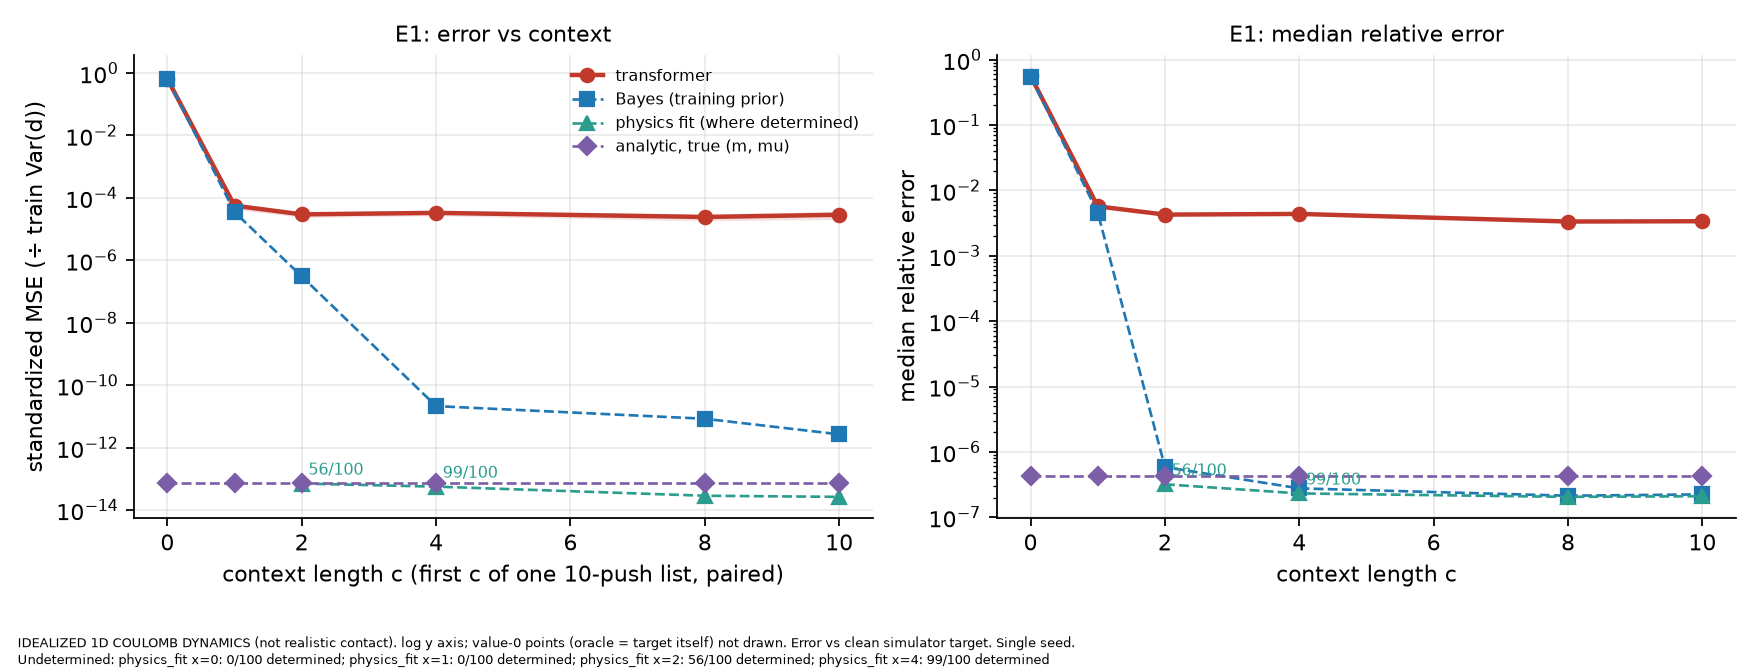
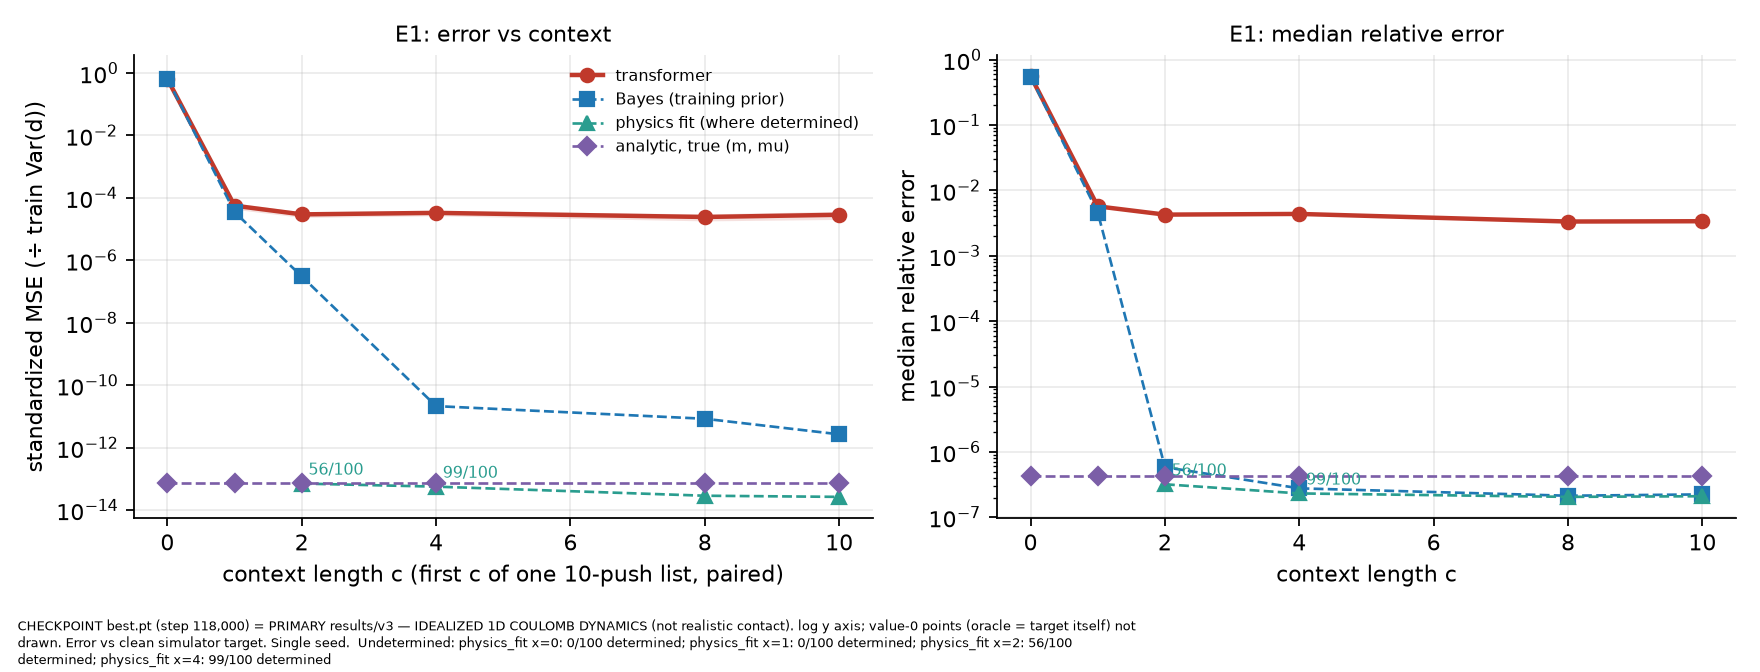
Fact-check corrections: regenerate figures (E2 stale, F03 zero point), checkpoint tag option, summary and scripts
Claude-Session: https://claude.ai/code/session_01EMRnhXNbTxxRuwgfvyUP1y

Changed region(s): [[0.0, 0.9062, 0.6562, 1.0]]

diff --git a/scripts/packet/make_deck.py b/scripts/packet/make_deck.py
@@ -9,7 +9,7 @@ from pptx.dml.color import RGBColor
 from pptx.enum.text import PP_ALIGN, MSO_ANCHOR
 from pptx.enum.shapes import MSO_SHAPE
 
-PK = Path(sys.argv[1]); FIG = PK / "figures"; SIM = PK / "simulator_evidence"
+PK = Path(sys.argv[1]); FIG = PK / "figures"; SIM = PK / "simulator_evidence"; SLF = PK / "figures_slides"; SLS = PK / "figures_slides_src"  # caption-free slide versions
 RED = RGBColor(0xC0, 0x39, 0x2B); INK = RGBColor(0x22, 0x22, 0x22); GREY = RGBColor(0x66, 0x66, 0x66); BLUE = RGBColor(0x1F, 0x4E, 0x79); LIGHT = RGBColor(0xF3, 0xF6, 0xFA)
 prs = Presentation(); prs.slide_width = Inches(13.333); prs.slide_height = Inches(7.5); BLANK = prs.slide_layouts[6]
 BANNER = "Idealized 1D Coulomb dynamics • 1 seed • no observation noise • preliminary"
@@ -85,7 +85,7 @@ bullets(s, 0.6, 2.0, 12.1, 3.6, [
     "Task: predict how far a cube slides from a history of earlier pushes on the same hidden cube (unknown mass and friction).",
     "Weights are frozen at test time: any benefit has to come from reading the history.",
     "What we did: built and audited the pipeline; found a limitation in the original MuJoCo contact scene; trained one model on an idealized 1D simulator; ran E1–E4.",
-    "Headline (preliminary): context helps from the very first push — median error 56% → 0.57% — then plateaus at 0.3–0.4% while exact references keep improving.",
+    "Headline (preliminary): context helps from the very first push — median error 56% → 0.57% — then plateaus at 0.33–0.44% while exact references keep improving.",
 ], size=20, gap=12)
 box(s, 0.6, 5.7, 12.1, 0.95, "Everything shown: idealized 1D Coulomb dynamics implemented in MuJoCo • one training seed • no observation noise • 50–100 test items per experiment", size=16)
 footer(s, "Source: packet GUIDE_READ_FIRST.md §0")
@@ -118,8 +118,8 @@ s = new("The original MuJoCo contact scene did not represent our assumptions")
 image(s, crop(SIM / "contact_reproduction_5e0ae3f_v2" / "fig1_contact_failure_traces.png", 0, 0, 1, 0.485, "fig1_top_row.png"), 0.3, 1.3, 12.7, 3.2)
 bullets(s, 0.5, 4.65, 12.3, 2.3, [
     "Verified: the cube hops and loses contact on 104–182 of 150–200 push steps; normal force reaches 8–41 × m g; 105 of 1000 random pushes tumble past 45°. Friction = μ·N whenever it is in contact — the normal load is what breaks.",
-    "The hop occurs even with no applied force. ~30 solver settings and five scene redesigns failed; the armature workaround agreed with the formula only through contact chatter (contact 9–20% of steps) and was rejected.",
-    "Hypothesis, not proven: the soft contact solver lifts N above m g when F > μN (first-step N matches (mg+μF)/(1+μ²) within 0.2%). A finding about this configuration — not “MuJoCo is wrong”.",
+    "The hop occurs even with no applied force. ~30 solver settings and several scene redesigns failed; the armature workaround agreed with the formula only through contact chatter (contact 9–20% of steps) and was rejected.",
+    "Hypothesis, not proven: the soft contact solver lifts N above m g when F > μN (first-step N matches (mg+μF)/(1+μ²) to ~0.2%; that does not by itself explain the no-force hop). A finding about this configuration — not “MuJoCo is wrong”.",
 ], size=15, gap=6)
 footer(s, "REPRODUCTION at historical commit 5e0ae3f: m=0.5 kg, μ=0.6, F=26 N, k=200; yellow = force on; column 3 dashed line = N = m g. Both rows and saved historical evidence: backup slides / packet.")
 notes(s, "SAY: Yellow is force on. Column 1: the cube leaps to 136 mm and spins about 180 degrees. Column 2: velocity falls in stair-steps because friction acts only in contact steps. Column 3: normal force over m g; the dashed line is what the ideal model assumes. Column 4: contact flips between 0, 2 and 4 contacts. Friction obeys Coulomb whenever there is contact; the normal load is what breaks.\nBe careful: say 'this configuration', not 'MuJoCo is wrong'. The mechanism is a hypothesis supported by a numerical match on the first step only.\nLIKELY QUESTIONS: 'Smaller time step?' dt was frozen by the protocol; not tried. 'Could contact be fixed?' Possibly with another formulation; a later project (slide 9).\nEVIDENCE: simulator_evidence/ (historical + reproduction), reviews/T01.")
@@ -130,11 +130,11 @@ box(s, 0.5, 1.3, 12.3, 0.9, "The learning pilot uses idealized 1D Coulomb dynami
 bullets(s, 0.5, 2.35, 6.3, 4.6, [
     "One x-slide joint; push force and Coulomb friction applied explicitly each step; stick rule gives exact stiction (F ≤ μ m g ⇒ d = 0).",
     "No contact, rotation, hopping or tipping (max rotation is vacuously 0).",
-    "Checks passed (2000 settings): |relative error| median 3.4e-7, 95th pct 2.4e-6; halving dt 1.8e-7; T² scaling 1e-6; hand-written event simulation agrees to 1e-13 m.",
+    "Checks passed: 2,000 settings |relative error| median 3.4e-7, 95th pct 2.4e-6; dt-halving (50) 1.8e-7; T² scaling (20) 1e-6; hand-written event simulation agrees to 1e-13 m.",
     "Can support: does a model infer hidden parameters from context in a known, exactly solvable family?",
     "Cannot support: anything about realistic contact dynamics; oracle and analytic references are not independent of the simulator.",
 ], size=15, gap=8)
-image(s, crop(FIG / "F03_worked_example.png", 0, 0, 0.5, 0.9, "F03_left.png"), 6.9, 2.35, 6.1, 3.4)
+image(s, crop(SLF / "F03_worked_example.png", 0, 0, 0.5, 0.93, "F03s_left.png"), 6.9, 2.35, 6.1, 3.4)
 tb(s, 6.9, 5.75, 6.1, 1.2, "Velocity of the worked example (m=1.0, μ=0.45, F=20 N, T=0.15 s; yellow = force on). Solid: saved replay of the final simulator; dashed: hand-derived piecewise motion. Final displacement 0.79437 m (hand) vs 0.79435 m (replay). Agreement tests the implementation, not physics.", size=12, color=GREY)
 footer(s, "Sources: simulator_evidence/ideal_simulator_H2_gate_packet; reviews/T01/f28ff1e; GUIDE §4")
 notes(s, "SAY: After the contact scene failed, you approved replacing it by explicit 1D Coulomb dynamics inside MuJoCo. We rejected MuJoCo's built-in joint friction because it creeps below the stiction threshold (0.6-0.7 mm). Read the boxed sentence aloud. The 1e-6 agreement is expected and shows correct implementation.\nWHAT IT SUPPORTS: ICL on a known function class, like classic ICL studies, where we know exactly what information suffices.\nLIKELY QUESTIONS: 'Is this circular?' Yes for the physics; the information-content question does not depend on independence. 'Why keep MuJoCo?' Interface and later extension to contact.\nHOUSEKEEPING: the header comment in cube.xml is stale (says frictionloss).")
@@ -151,7 +151,7 @@ table(s, 0.5, 1.35, 6.7, [["Item", "Actual value"],
     ["Optimization", "AdamW 1e-4, wd 0.01, batch 256, clip 1.0, warmup 2k + cosine"],
     ["Run", "150,000 steps, 33.6 min, 1 RTX 4090, 0.56 GPU-h"],
     ["Checkpoint", "best val 0.06137 at step 118,000 (selected)"]], [1.9, 4.8], size=13, rowh=0.52)
-image(s, crop(FIG / "F05_training_curves.png", 0, 0, 0.5, 0.88, "F05_left.png"), 7.4, 1.3, 5.6, 3.1)
+image(s, crop(SLF / "F05_training_curves.png", 0, 0, 0.5, 0.93, "F05s_left.png"), 7.4, 1.3, 5.6, 3.1)
 bullets(s, 7.4, 4.5, 5.6, 2.5, [
     "Train and validation track; no NaN, no early stop.",
     "Flat after ~3k steps: 99.95% of the validation loss is position 0 (no context).",
@@ -163,34 +163,34 @@ notes(s, "SAY: The numbers are read from meta.json and config.json. Normalizatio
 
 # ---- 6 ----
 s = new("E1: context helps from the first push — and the one-push result survives an audit")
-image(s, crop(FIG / "F07_E1_error_vs_context.png", 0, 0, 0.5, 0.88, "F07_left.png"), 0.3, 1.3, 6.4, 3.4)
-image(s, crop(FIG / "F08_c1_audit.png", 0.5, 0, 1.0, 0.86, "F08_right.png"), 6.8, 1.3, 6.2, 3.4)
+image(s, crop(SLS / "E1_error_vs_context_log.png", 0, 0, 0.5, 0.93, "F07s_left.png"), 0.3, 1.3, 6.4, 3.4)
+image(s, crop(SLF / "F08_c1_audit.png", 0.5, 0, 1.0, 0.93, "F08s_right.png"), 6.8, 1.3, 6.2, 3.4)
 bullets(s, 0.5, 4.8, 12.3, 2.2, [
-    "Median error 56% (c=0) → 0.57% (c=1) → 0.34% (c=10). Exact Bayes and the physics fit reach ~1e-7 by c=2; the transformer plateaus (cause untested).",
-    "At c=1 exact Bayes gets 0.46% (MSE 8.2e-5 m²) vs the transformer's 0.57% (1.3e-4 m²): about 1.6× worse in MSE.",
+    "Median error 56% (c=0) → 0.57% (c=1) → 0.34% (c=10). Bayes and the physics fit reach ≲1e-6 by c=2 and ~2e-7 by c=10; the transformer plateaus (cause untested).",
+    "At c=1 exact Bayes (independent calculation; the project's Bayes agrees) gets 0.46% (MSE 8.2e-5 m²) vs the transformer's 0.57% (1.3e-4 m²): about 1.6× worse in MSE.",
     "One push is enough here because the narrow prior truncates the one-parameter family of consistent cubes. Audit: no leakage or indexing defect detected (worse-than-Bayes alone would not prove that).",
 ], size=15, gap=6)
 footer(s, "Left: E1, standardized MSE vs context length c (log), 100 items, best.pt step 118,000. Right: median relative error at c=1 by force gap |F_q−F_c| (transformer, exact Bayes, Bayes posterior sd). Sources: results/v3, c1_audit.")
 notes(s, "SAY: Left: standardized MSE vs context length, log axis; the transformer drops four orders of magnitude at c=1 and then stays flat, while Bayes and the physics fit keep dropping to 1e-7 and below (the full figure with median relative error is figure F07). Right: error by force gap — the transformer tracks exact Bayes but is systematically a bit worse; Bayes' own posterior sd (grey) shows how much uncertainty the prior leaves.\nWHY SO GOOD: In the ideal model one observation gives y1 = A F1 - B; the prior ranges are narrow, so the unresolved direction changes the query by under 1%. A property of the setup, not necessarily of the model.\nLEAKAGE: tested the token path, re-simulated stored pushes, shuffled contexts (error jumps to 71%), scaled d1 by 1% (elasticity 0.995 vs Bayes 1.001), wrote the true query outcome into its slot (prediction unchanged, exactly 0.0). 'No leakage detected' — not 'proof of absence'.\nLIKELY QUESTIONS: 'Worse than Bayes at c=0?' No: 1.50 vs 1.53 m2, within noise. 'Why plateau?' Not tested; hypotheses on slide 9.")
 
 # ---- 7 ----
-s = new("E2: Bayes shows the information effect; the transformer's accuracy floor hides it")
-image(s, crop(FIG / "F09_E2_same_vs_distinct.png", 0, 0, 1, 0.86, "F09_nocap.png"), 0.3, 1.3, 7.9, 3.7)
-bullets(s, 8.4, 1.35, 4.6, 3.7, [
+s = new("E2: Bayes shows the information effect; whether the transformer does at c=4 depends on the checkpoint")
+image(s, crop(SLS / "E2_same_vs_distinct_log.png", 0.5, 0, 1, 0.93, "F09s_right.png"), 0.3, 1.3, 7.9, 3.65)
+bullets(s, 8.4, 1.35, 4.6, 3.6, [
     "New-force query, Bayes: same-force history stays ~1.4e-5; distinct forces fall to ~2e-14.",
-    "Transformer at c=2 matches Bayes' contrast (+5.2e-5 vs +5.25e-5 m²).",
-    "At c=4 it shows none (−9e-6 m², CI includes 0): its floor (2–3e-5) is as large as the effect.",
-], size=15, gap=8)
-table(s, 0.5, 5.15, 7.6, [["Standardized MSE (new-force query)", "c=2", "c=4"], ["Transformer, same-force (B)", "4.1e-5", "2.1e-5"], ["Transformer, distinct-force (D)", "1.9e-5", "2.5e-5"],
-    ["Bayes, same-force (B)", "2.3e-5", "1.4e-5"], ["Bayes, distinct-force (D)", "1e-10", "2e-14"]], [4.1, 1.75, 1.75], size=12, rowh=0.34)
-bullets(s, 8.4, 5.1, 4.6, 1.8, ["E2 as designed, without noise, cannot yet separate information from tokens for this model.", "50 paired items; intervals are over items, not seeds."], size=14, gap=5)
-footer(s, "Solid = same-force context, dotted = distinct-force, every method; log axis. Sources: results/v3 e2_same_vs_distinct.csv, e2_paired.csv.")
-notes(s, "SAY: Solid lines are same-force context, dotted are distinct-force, for every method. In the right panel the blue Bayes curves separate by ten orders of magnitude, so the design works. The red transformer curves stay together near 2e-5. At two observations the transformer's same-minus-distinct gap equals Bayes'; at four it vanishes. Its same-force result is near Bayes; it cannot reach Bayes' distinct-force accuracy because of its own floor.\nWHAT THIS MEANS: we cannot say the transformer ignores diversity. We can say this experiment is limited by precision, which motivates noise (raises Bayes' floor) and a floor diagnosis.\nPAIRED NUMBERS (new-force query, B minus D, squared error m^2): Bayes +5.25e-5 at c=2 (CI 2.5e-5 to 8.5e-5), +3.15e-5 at c=4 (1.9e-5 to 4.6e-5); transformer +5.2e-5 at c=2 (1.5e-5 to 1.0e-4), -9.3e-6 at c=4 (-6.6e-5 to +2.8e-5).\nLIKELY QUESTIONS: 'Did the transformer learn diversity?' At c=2 it behaves like Bayes. 'Why different at c=4?' Untested.")
+    "Transformer at c=2: B−D = +5.2e-5 m² [1.5e-5, 1.0e-4], consistent with Bayes' +5.25e-5.",
+    "At c=4 it depends on the checkpoint: best.pt −9.3e-6 (interval includes 0); last.pt +3.0e-5 [4.7e-6, 6.2e-5], close to Bayes' +3.15e-5.",
+], size=14, gap=7)
+table(s, 0.5, 5.0, 7.7, [["Standardized MSE, new-force query", "c=2", "c=4"], ["Transformer best.pt: same-force (B) / distinct (D)", "4.1e-5 / 1.9e-5", "2.1e-5 / 2.5e-5"], ["Transformer last.pt: B / D", "4.4e-5 / 2.6e-5", "2.5e-5 / 1.2e-5"],
+    ["Bayes: same-force (B) / distinct (D)", "2.3e-5 / 1e-10", "1.4e-5 / 2e-14"]], [4.1, 1.8, 1.8], size=12, rowh=0.38)
+bullets(s, 8.4, 5.0, 4.6, 1.9, ["E2 at c=4 is inconclusive for this model: one seed, two checkpoints that disagree. Either way the transformer's distinct-force error stays far above Bayes.", "50 paired items; intervals are over items, not seeds."], size=13, gap=4)
+footer(s, "New-force query panel only (familiar-force panel: guide §8.3). Solid = same-force context, dotted = distinct-force, every method; log axis; shown: best.pt (primary). Sources: results/v3 and v4 (last.pt) e2_same_vs_distinct.csv, e2_paired.csv.")
+notes(s, "SAY: Solid lines are same-force context, dotted are distinct-force, for every method (the figure shows the primary checkpoint, best.pt). In the right panel the blue Bayes curves separate by ten orders of magnitude, so the design works. The red transformer curves stay together near 2e-5 for best.pt.\nTHE IMPORTANT CAVEAT: the c=4 contrast changes with the checkpoint. best.pt: B minus D = -9.3e-6 m2, interval [-6.6e-5, +2.8e-5] includes 0. last.pt: +3.0e-5, interval [4.7e-6, 6.2e-5], close to Bayes' +3.15e-5. With a single seed we cannot say which is representative, so E2 at c=4 is inconclusive.\nAT c=2 both checkpoints give a positive B-D difference: best.pt +5.2e-5 [1.5e-5, 1.0e-4] vs Bayes +5.25e-5 [2.5e-5, 8.5e-5]; the interval is about 7x wide, so say 'consistent with', not 'matches'.\nIN BOTH CASES the transformer's distinct-force error stays far above Bayes' 2e-14: it does not use diversity to the extent an exact reasoner can.\nLIKELY QUESTIONS: 'Did the transformer learn diversity?' Partly/unclear. 'Why does the checkpoint matter?' Selection by validation loss is dominated by position 0 (slide 5); that is the reason to report context-conditioned validation loss.")
 
 # ---- 8 ----
 s = new("E3 and E4 (both preliminary)")
-image(s, crop(FIG / "F10_E3_redundancy.png", 0, 0, 0.5, 0.91, "F10_left.png"), 0.3, 1.3, 6.3, 3.2)
-image(s, crop(FIG / "F12_e4_prior_comparison.png", 0.5, 0, 1.0, 0.9, "F12_right.png"), 6.8, 1.3, 6.2, 3.2)
+image(s, crop(SLS / "E3_redundancy_log.png", 0, 0, 0.5, 0.93, "F10s_left.png"), 0.3, 1.3, 6.3, 3.2)
+image(s, crop(SLF / "F12_e4_prior_comparison.png", 0.5, 0, 1.0, 0.93, "F12s_right.png"), 6.8, 1.3, 6.2, 3.2)
 tb(s, 6.8, 4.28, 6.2, 0.3, "red: transformer • blue: Bayes, training prior • green: Bayes, broad prior (y: median relative error, log)", size=11, color=GREY)
 bullets(s, 0.5, 4.6, 6.1, 2.4, [
     "E3: appending exact copies leaves every reference unchanged but moves the transformer's prediction by 3.2 / 1.9 / 2.6 mm (k = 1/2/4, mean; max 11 mm); its error does not change materially.",
@@ -208,16 +208,16 @@ s = new("Limitations and recommended next experiments")
 bullets(s, 0.5, 1.35, 5.9, 5.6, [
     "Idealized dynamics; realistic contact not tested (simulator failure is a finding).",
     "One training seed; intervals are across items, not seeds.",
-    "No observation noise: E3's main question and E2's information effect are untested/hidden.",
+    "No observation noise: E3's main question is untested and E2's information effect is comparable to the model's accuracy.",
     "Small tests (100/50/50/50); structured test histories differ from training histories.",
-    "Checkpoint selection driven by the no-context position; last.pt shifts c ≥ 1 MSE by 1–18%.",
+    "Checkpoint selection driven by the no-context position; last.pt shifts c ≥ 1 MSE by 1–18% and flips E2's c=4 contrast.",
     "Short, small training (1,000 cubes, 34 min); plateau cause untested.",
     "Review gaps: control-authored scripts and the final packet were audited only partly; the Bayes reviewer's adversarial synthetic set was 19 of 23 cases complete.",
 ], size=14, gap=5)
 tb(s, 6.7, 1.3, 6.2, 0.4, "Next experiments, ranked (resource figures are estimates)", size=16, bold=True, color=BLUE)
 bullets(s, 6.7, 1.95, 6.2, 5.0, [
-    "1. Observation noise + diagnose the accuracy floor. Question: does the model value independent information over copies/length? Noise lifts Bayes' floor above the transformer's. Needs the noise path, retraining; ~3.4 GPU-h for 3 seeds × 2 noise levels.",
-    "2. Why the plateau? Per-position loss weights / log target, 10× more cubes, longer training, full-precision matmul. ~2.4 GPU-h for 4 ablations.",
+    "1. Observation noise + diagnose the accuracy floor. Question: does the model value independent information over copies/length? Noise is expected to lift Bayes' error above the transformer's. Needs the noise path, retraining; ~3.4 GPU-h for 3 seeds × 2 noise levels.",
+    "2. Why the plateau? Per-position loss weights / log target, 10× more cubes, longer training, full-precision matmul. ~2.4 GPU-h for 4 ablations (assumes ~0.6 each).",
     "3. Broader prior and action ranges so one push is not decisive. One dataset + one run ≈ 0.6 GPU-h.",
     "Not in the top three: repairing the contact simulator — answers realism, not information content; later extension.",
 ], size=14, gap=7)
@@ -267,12 +267,14 @@ notes(s, "Reproduction at commit 5e0ae3f. 906/1000 rotate >1 deg, 188 >10, 105 >
 s = backup("attempted simulator fixes")
 table(s, 0.5, 1.35, 12.3, [["Attempt", "Outcome", "Decision"],
  ["solimp tweak", "met resting-height tolerance; hop/tumble remained", "kept as softness choice, not a fix"], ["~30 contact/solver settings", "all ~180° rotation/no contact, or could not settle", "rejected"],
- ["pair solreffriction", "0.4–1.9° but viscous friction; d off 7%–1000%", "rejected"], ["x–y slide only", "N = 0 exactly ⇒ no friction", "rejected"],
+ ["pair solreffriction", "0.4–1.9° but viscous friction; d off ~7%–1000% (writer's text; its table says 6.6%–383%)", "rejected"], ["x–y slide only", "N = 0 exactly ⇒ no friction", "rejected"],
  ["x–y–z slides (free/ranged/spring/damper)", "contact dropouts; N/mg 0–110", "rejected"], ["armature 1000 kg", "flat, d within 0.37% median; contact 9–20%, N spikes ≈100 m g", "rejected"],
  ["MuJoCo frictionloss = μ m g", "creeps 0.63–0.70 mm below threshold", "rejected"], ["explicit Coulomb force, 1D", "exact ideal law; all checks passed", "accepted"]], [3.6, 6.1, 2.6], size=13, rowh=0.55)
 notes(s, "Numbers for fixes are the writers' saved measurements (docs/questions/T01.md, docs/evidence); only the failure of the original scene was reproduced for this packet.")
 s = backup("parameter ambiguity: one observation cannot separate two cubes, yet predictions agree"); image(s, FIG / "F04_parameter_ambiguity.png", 0.5, 1.4, 12.3, 5.3)
 notes(s, "Cube A (1.0 kg, 0.45) and cube B (1.2 kg, 0.3244) give identical displacement at F=20 N, T=0.15 s but differ by 0.75% at F=24 N. This is why one push can predict well while parameters stay ambiguous.")
+s = backup("E2 with last.pt (checkpoint sensitivity)"); image(s, FIG / "B02_E2_last_checkpoint_sensitivity.png", 0.4, 1.35, 12.5, 5.0)
+notes(s, "Sensitivity run only (last.pt, step 150,000). Paired B-D at c=4: +3.0e-5 m2 [4.7e-6, 6.2e-5] vs best.pt -9.3e-6 [-6.6e-5, 2.8e-5]; at c=2 +4.4e-5 [3.8e-6, 9.4e-5]. Familiar-force cells: A 2.7e-5/7.7e-6/5.7e-6 (c=1/2/4), C 1.4e-5/1.1e-5.")
 s = backup("E4 detail"); image(s, FIG / "F11_E4_heavy_ood.png", 0.4, 1.4, 12.5, 5.3)
-notes(s, "Standardized MSE in the figure; relative errors are in the table on slide 8 notes and the guide. 50 heavy cubes, 1 seed.")
+notes(s, "Standardized MSE in the figure; relative errors are in the guide's §8.5 table (heavy c=10: 2.27% best.pt, 2.08% last.pt vs 0.34% / 0.36% in-distribution). 50 heavy cubes, 1 seed.")
 prs.save(PK / "PRESENTATION_meeting.pptx"); print("saved", len(prs.slides), "slides")

diff --git a/scripts/packet/make_packet_figures.py b/scripts/packet/make_packet_figures.py
@@ -7,11 +7,12 @@ import matplotlib; matplotlib.use("Agg")
 import matplotlib.pyplot as plt
 from matplotlib.patches import FancyBboxPatch, FancyArrowPatch
 
-PK = Path(sys.argv[1]); FIG = PK / "figures"; CSV = PK / "csv"; DATA = Path(os.environ["CS282A_DATA"]); G = 9.81
+PK = Path(sys.argv[1]); FIG = Path(sys.argv[2]) if len(sys.argv) > 2 else PK / "figures"; FIG.mkdir(exist_ok=True); CSV = PK / "csv"; DATA = Path(os.environ["CS282A_DATA"]); G = 9.81
 CAP = "IDEALIZED 1D COULOMB DYNAMICS (not realistic contact). "
 
 
 def cap(fig, t, fs=7):
+    if os.environ.get("PILOT_FIG_NO_CAPTION"): return
     import textwrap; fig.text(0.01, 0.005, textwrap.fill(t, 170), fontsize=fs, va="bottom")
 
 
@@ -49,7 +50,7 @@ fig.tight_layout(); fig.savefig(new("F02_token_diagram.png"), dpi=170); plt.clos
 # ---------- F03 worked example: analytic piecewise vs final simulator replay ----------
 m, mu, F, k = 1.0, 0.45, 20.0, 150; T = k * 1e-3; a1 = (F - mu * m * G) / m; a2 = mu * G
 z = np.load(DATA / "pilot" / "sim_frames" / "20261116_205732" / "middle.npz", allow_pickle=True)
-t = z["t"]; pos = z["pos"][:, 0]; vel = z["vel"]; x0 = pos[0]
+t = z["t"]; pos = z["pos"][:, 0]; vel = z["vel"]; x0 = 0.0  # the replay stores positions AFTER each step; the push starts from x = 0
 def an_v(tt): return np.where(tt <= T, a1 * tt, np.maximum(a1 * T - a2 * (tt - T), 0))
 def an_x(tt):
     vt = a1 * T; xT = 0.5 * a1 * T**2; tc = np.clip(tt - T, 0, vt / a2); return np.where(tt <= T, 0.5 * a1 * tt**2, xT + vt * tc - 0.5 * a2 * tc**2)

diff --git a/scripts/pilot_make_figures.py b/scripts/pilot_make_figures.py
@@ -10,6 +10,7 @@ Bayes appears only if the results CSVs contain it (valid Bayes only; T06 drops i
 from __future__ import annotations
 
 import argparse
+import os
 import textwrap
 from pathlib import Path
 
@@ -49,6 +50,8 @@ def _series(ax, d, xlabel, ylabel, title):
 
 
 def cap(fig, txt, fs=7, bold=False):
+    if os.environ.get("PILOT_FIG_NO_CAPTION"):  # slide versions: the caption goes in the slide footer instead
+        return
     fig.text(0.01, 0.005, textwrap.fill(txt, 170), fontsize=fs, va="bottom", weight="bold" if bold else "normal")
 
 
@@ -61,8 +64,12 @@ def _coverage(d):
 
 
 def main():
-    ap = argparse.ArgumentParser(); ap.add_argument("--results-dir", required=True); ap.add_argument("--out-dir", required=True)
-    a = ap.parse_args(); R = Path(a.results_dir); O = Path(a.out_dir); O.mkdir(parents=True, exist_ok=False)
+    ap = argparse.ArgumentParser(); ap.add_argument("--results-dir", required=True); ap.add_argument("--out-dir", required=True); ap.add_argument("--tag", default="", help="identifies the checkpoint/results in every caption")
+    a = ap.parse_args()
+    global NOTE
+    if a.tag:
+        NOTE = a.tag + " — " + NOTE
+    R = Path(a.results_dir); O = Path(a.out_dir); O.mkdir(parents=True, exist_ok=False)
     # E1: standardized MSE and median relative error vs c
     ser = pd.read_csv(R / "e1_error_vs_context.csv", comment="#"); met = pd.read_csv(R / "e1_metrics.csv", comment="#")
     fig, ax = plt.subplots(1, 2, figsize=(11, 4.2))

diff --git a/results/SUMMARY.md b/results/SUMMARY.md
@@ -13,28 +13,28 @@ Full explanation: the meeting packet's `GUIDE_READ_FIRST.md`; every figure/CSV n
 * Simulator implementation: agrees with the closed form to ~1e-6 over 2,000 settings (median 3.4e-7, 95th pct 2.4e-6), dt-halving 1.8e-7, T² scaling 1e-6, hand-written event simulation 1e-13 m (recomputed independently by a reviewer). **This agreement is by construction, not independent validation of contact physics.**
 * Training: no NaN, no early stop; validation tracks training; both saved checkpoints reproduce their logged validation losses (loader check); causality, leakage, normalization, overfit tests passed; an independent reviewer ran its own leakage perturbations (max change 0.0).
 * Data: reviewer re-simulated 1,400 stored pushes bit-identically; cube ids disjoint; normalization equals an independent train-only recomputation; construction rules for E2/E3 hold.
-* Bayes: matches an independent implementation (median relative difference 2e-15 over 80 real item cases; 1e-9 or better on 19 adversarial cases; reviewer's synthetic set was 19/23 complete when it reported).
+* Bayes: matches an independent implementation (median relative difference 2e-15 over 80 real item cases; 1e-7 or better (most ≤ 1e-9) on 19 adversarial cases; reviewer's synthetic set was 19/23 complete when it reported).
 * Evaluation harness: hand-calculated fixture verified; Bayes-as-model test runs unconditionally; figure label bugs found by an audit were fixed (verified by the controller, not re-reviewed).
 
 ## Preliminary findings (single seed; item-level uncertainty only)
 * **E1 (100 items).** Median relative error 56.3% (c=0) → 0.570% (c=1) → 0.426% (c=2) → 0.437% (c=4) → 0.334% (c=8) → 0.338% (c=10). MSE (m²): 1.50 → 1.31e-4 → 6.9e-5 → 7.7e-5 → 5.7e-5 → 6.7e-5. Training-prior Bayes: 1.53 → 8.2e-5 → 7.1e-7 → 5.0e-11 → 2.0e-11 → 6.2e-12 m². The transformer uses context immediately but **plateaus from c=2** while the exact references keep improving.
 * **One-observation audit.** No leakage or indexing defect detected. Exact Bayes at c=1 (independent numpy): 0.458% median, MSE 8.2e-5 m² vs transformer 0.570%, 1.31e-4 m² (1.6× worse; closer on 31/100 items). One push is highly informative because the narrow prior truncates the family of consistent cubes.
-* **E2 (50 paired items).** New-force query: Bayes same-force 2.3e-5 / 1.4e-5 (c=2/4) vs distinct-force 1e-10 / 2e-14 (standardized MSE). Transformer: same-force 4.1e-5 / 2.1e-5; distinct-force 1.9e-5 / 2.5e-5. Paired same−distinct (m²): Bayes +5.25e-5 (c=2), +3.15e-5 (c=4); transformer +5.2e-5 (c=2, CI excludes 0), −9.3e-6 (c=4, CI includes 0).
+* **E2 (50 paired items).** New-force query: Bayes same-force 2.3e-5 / 1.4e-5 (c=2/4) vs distinct-force 1e-10 / 2e-14 (standardized MSE). Transformer `best.pt`: same-force 4.1e-5 / 2.1e-5; distinct-force 1.9e-5 / 2.5e-5. Paired same−distinct (m²): Bayes +5.25e-5 (c=2), +3.15e-5 (c=4); transformer `best.pt` +5.2e-5 (c=2, [1.5e-5, 1.0e-4], consistent with Bayes) and −9.3e-6 (c=4, interval includes 0). **With `last.pt` the c=4 difference is +3.0e-5 ([4.7e-6, 6.2e-5]), close to Bayes' — so E2 at c=4 depends on the checkpoint and is inconclusive for this model (one seed). In both cases the transformer's distinct-force error stays far above Bayes'.**
 * **E3 (50 items, no-noise copies).** References unchanged; transformer prediction shifts 3.2 / 1.9 / 2.6 mm on average (k = 1/2/4), error not materially changed. *Preliminary no-noise redundancy test. This does not test the benefit of independent noisy repeated measurements.*
 * **E4 (50 heavy cubes, preliminary heavy-OOD behavior).** Context gain persists (median relative error 544% → 2.3%), but relative error is ~7× the in-distribution value (2.3% vs 0.34% at c=10); broad-prior Bayes is essentially exact there; training-prior Bayes is biased (truncated at m=1.5).
 
 ## What surprised us (survived a correctness check)
 * One observation already gives 0.57% error (audited; explained by the prior).
-* The transformer's error floor (≈ 2–3e-5 standardized MSE) is as large as the E2 information effect, so the intended contrast is invisible at c=4 even though Bayes shows it clearly.
-* 99.95% of the validation loss is the no-context position, so best-checkpoint selection ignores context-conditioned performance.
+* The transformer's accuracy for new-force queries (≈ 1–4e-5 standardized MSE) is comparable to the E2 information effect, and the c=4 contrast changes sign between `best.pt` and `last.pt`, even though Bayes shows it clearly.
+* 99.95% of the validation loss is the no-context position, so best-checkpoint selection barely reflects context-conditioned performance.
 * The contact scene failed in a precise way: whenever in contact, friction = μN exactly, but the normal force was not m g (contact flickering, hopping, tumbling in 105/1000 pushes), also with no applied force.
 
 ## Limitations
-One training seed • small training set (1,000 cubes) • short training run (34 min; 150k steps exceeds PROTOCOL §7's 100k "ceiling", set from the benchmark per PILOT_SPEC §J2) • no observation-noise model • small E2/E3/E4 test sets • structured-context distribution shift between training and test histories • idealized dynamics (original contact scene failed) • checkpoint selection driven by position 0 • review gaps: control-authored scripts only partly audited; the final packet is fact-checked as stated in `provenance/FACT_CHECK.md`.
+One training seed • small training set (1,000 cubes) • short training run (34 min; 150k steps exceeds PROTOCOL §7's 100k "ceiling", set from the benchmark per PILOT_SPEC §J2) • no observation-noise model • small E2/E3/E4 test sets • structured-context distribution shift between training and test histories • idealized dynamics (original contact scene failed) • checkpoint selection driven by position 0 • review gaps: control-authored scripts only partly audited; an independent fact-check of the first draft of the packet found 1 critical, 6 major and 17 minor discrepancies, corrected in the current version, which was not re-checked (`provenance/FACT_CHECK.md` in the packet).
 
 ## What should we do next? (ranked; resource figures are estimates from measured rates: 150k steps = 33.6 min on one RTX 4090)
-1. **Observation noise.** *Question:* does the model value independent information over copies and length? *Why today's result motivates it:* without noise, Bayes' information effect (~1e-5) is no larger than the transformer's floor (2–3e-5), and E3 cannot separate copies from fresh repeats. *Experiment:* noise condition (σ_d ≈ 0.05 m) with fresh vs copied repeats, E2/E3 repeated. *Discriminating result:* under noise Bayes improves ∝ 1/√n for fresh repeats and not at all for copies; does the transformer follow? *Cost:* ~3.4 GPU-h (3 seeds × 2 noise levels); Bayes must be re-validated at σ_d > 0.
-2. **Diagnose the accuracy floor.** *Question:* why does the transformer plateau at ~0.3–0.4% from c=2 (cause untested)? *Why:* the plateau gates the value of experiment 1. *Experiment:* per-position loss weights / log target, 10× more cubes, longer training, full-precision matmul. *Discriminating result:* whichever change lowers the plateau identifies the cause. *Cost:* ~2.4 GPU-h for four ablations.
+1. **Observation noise.** *Question:* does the model value independent information over copies and length? *Why today's result motivates it:* without noise, Bayes' information effect (~1e-5) is comparable to the transformer's accuracy (1–4e-5), the E2 c=4 contrast flips sign between checkpoints, and E3 cannot separate copies from fresh repeats. *Experiment:* noise condition (σ_d = 5% of the median training displacement 0.957 m ≈ 0.048 m) with fresh vs copied repeats, E2/E3 repeated. *Discriminating result:* under noise Bayes improves ∝ 1/√n for fresh repeats and not at all for copies; does the transformer follow? *Cost:* ~3.4 GPU-h (3 seeds × 2 noise levels); Bayes must be re-validated at σ_d > 0.
+2. **Diagnose the accuracy floor.** *Question:* why does the transformer plateau at ~0.33–0.44% from c=2 (cause untested)? *Why:* the plateau gates the value of experiment 1. *Experiment:* per-position loss weights / log target, 10× more cubes, longer training, full-precision matmul. *Discriminating result:* whichever change lowers the plateau identifies the cause. *Cost:* ~2.4 GPU-h for four ablations.
 3. **Broader prior and action ranges.** *Question:* is the narrow (m, μ) prior making one observation too decisive? *Experiment:* new dataset and training run using the broad prior already implemented in Bayes. *Discriminating result:* gradual improvement with c and a larger E2 contrast relative to the floor. *Cost:* ~0.6 GPU-h.
 
 Not in the top three: repairing the contact simulator answers a question about realism, not information content; keep as a later extension.
